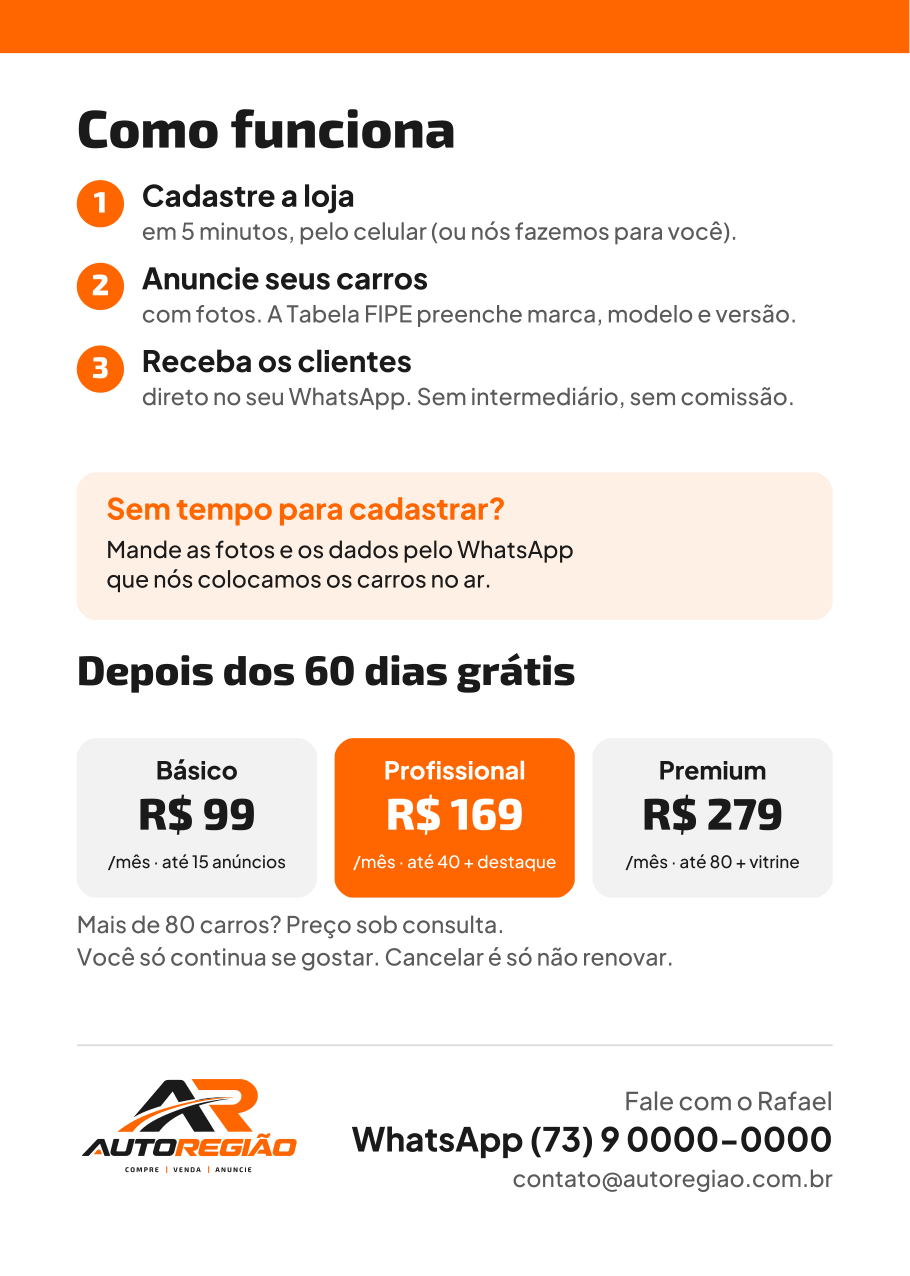
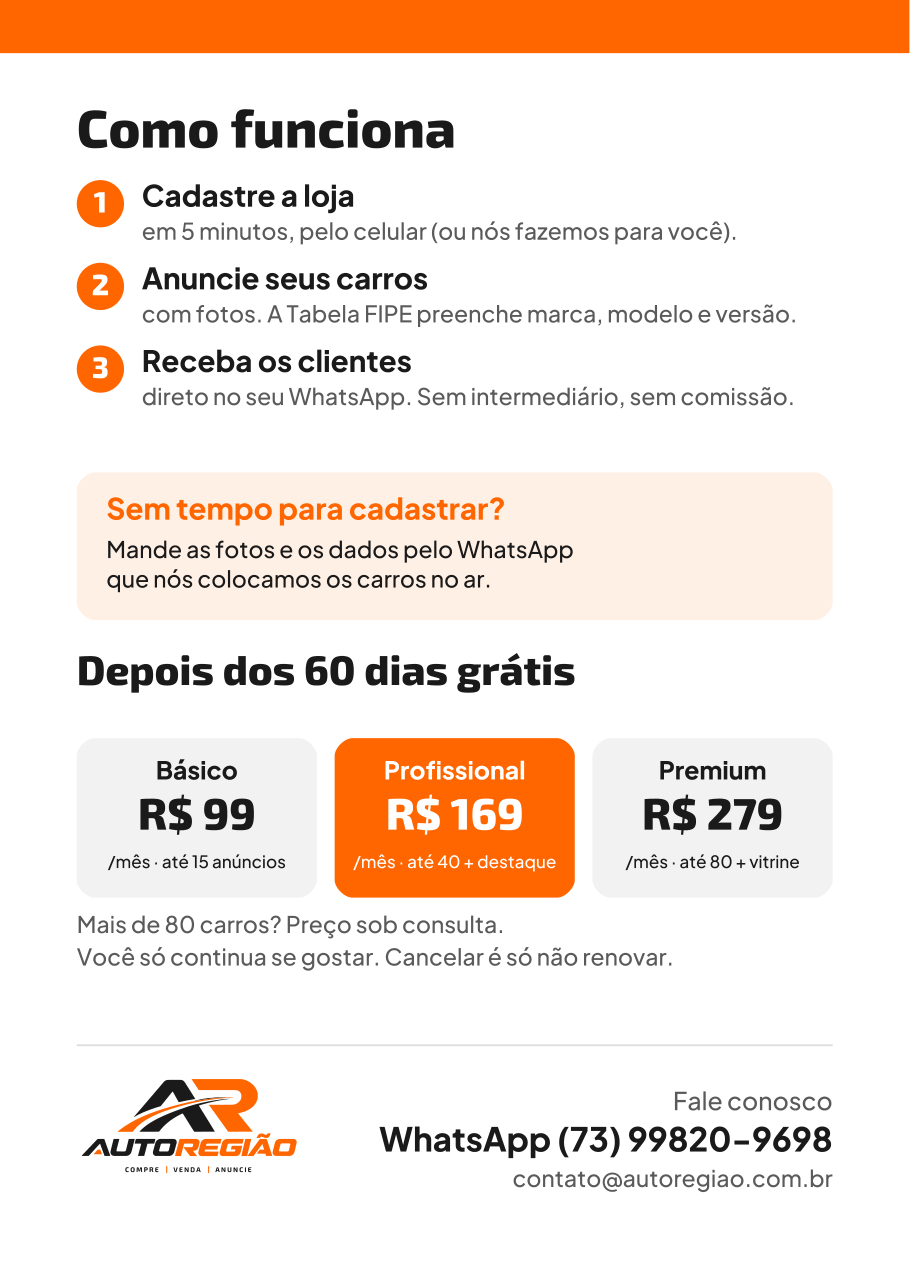
docs: folheto final com o WhatsApp (73) 99820-9698 e "Fale conosco"

Changed region(s): [[0.3692, 0.8558, 0.9231, 0.9169]]

diff --git a/docs/kit-lojistas/_scripts/folheto.py b/docs/kit-lojistas/_scripts/folheto.py
@@ -142,7 +142,7 @@ c.append(texto("Mais de 80 carros? Preço sob consulta.", M, y, 3.9, CIN)); y +=
 c.append(texto("Você só continua se gostar. Cancelar é só não renovar.", M, y, 3.9, CIN)); y = H - SANG - 30
 c.append(f'<line x1="{M}" y1="{y - 6}" x2="{W - M}" y2="{y - 6}" stroke="#DDD" stroke-width="0.3"/>')
 c.append(logo(M, y - 1, 38, "pos"))
-c.append(texto("Fale com o Rafael", W - M, y + 5, 4.2, CIN, JAK, "dir"))
+c.append(texto("Fale conosco", W - M, y + 5, 4.2, CIN, JAK, "dir"))
 c.append(texto("WhatsApp " + WHATS, W - M, y + 12, 5.6, GRA, JAKB, "dir"))
 c.append(texto("contato@autoregiao.com.br", W - M, y + 18, 3.9, CIN, JAK, "dir"))
 verso = salvar("verso", "".join(c), BRA)
